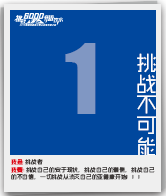
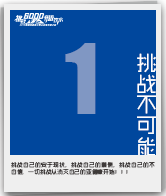
modify

Changed region(s): [[0.0602, 0.7959, 0.9337, 0.9184]]

diff --git a/js/detail.js b/js/detail.js
@@ -2,7 +2,7 @@
 * @Author: JerryWang
 * @Date:   2015-07-18 23:36:35
 * @Last Modified by:   JerryWang
-* @Last Modified time: 2015-07-20 21:40:12
+* @Last Modified time: 2015-07-21 13:02:52
 */
 
 $(function(){
@@ -40,7 +40,7 @@ $(function(){
 	});
 
 	$(".fav .icon").click(function(){
-		$.post('/api/third/up',{id:id},function(){
+		$.post('/api/third/up/',{id:id},function(){
 			$('#detail .upnum').text(function(index,text){
 				return (parseInt(text) || 0) + 1;
 			})
@@ -50,7 +50,7 @@ $(function(){
 	$.post('/api/third/visit/',{id:id},function(){});
 
 
-	$.getJSON('http://slide.cm/wechat/config?url=http://k3.limijiaoyin.com/third/html/detail.html?id='+id,function(data){
+	$.getJSON('http://slide.cm/wechat/config?url=http://kunlun.limijiaoyin.com/third/html/detail.html?id='+id,function(data){
 		wx.config({
 			debug: false,
 			appId: 'wx82a5d90838b461ba',
@@ -73,8 +73,8 @@ $(function(){
             wx.onMenuShareAppMessage({
                  title: "一起去挑战6000，一起去升级人生～",
                  desc: '我参与了昆仑山雪山矿泉水的晒风景活动，分享就有奖，你也快来参加吧！',
-                 link: 'http://k3.limijiaoyin.com/third/html/detail.html?id='+id,
-                 imgUrl: "http://k3.limijiaoyin.com/third/images/weixin_logo.jpg",
+                 link: 'http://kunlun.limijiaoyin.com/third/html/detail.html?id='+id,
+                 imgUrl: "http://kunlun.limijiaoyin.com/third/images/weixin_logo.jpg",
                  trigger: function (res) {
                  },
                  success: function (res) {
@@ -84,8 +84,8 @@ $(function(){
 
              wx.onMenuShareTimeline({
                  title: '一起去挑战6000，一起去升级人生～',
-                 link: 'http://k3.limijiaoyin.com/third/html/detail.html?id='+id,
-                 imgUrl: "http://k3.limijiaoyin.com/third/images/weixin_logo.jpg",
+                 link: 'http://kunlun.limijiaoyin.com/third/html/detail.html?id='+id,
+                 imgUrl: "http://kunlun.limijiaoyin.com/third/images/weixin_logo.jpg",
                  trigger: function (res) {
                  },
                  success: function (res) {

diff --git a/js/list.js b/js/list.js
@@ -2,7 +2,7 @@
  * @Author: JerryWang
  * @Date:   2015-07-15 15:12:34
  * @Last Modified by:   JerryWang
- * @Last Modified time: 2015-07-20 21:22:34
+ * @Last Modified time: 2015-07-21 13:06:18
  */
 
 
@@ -98,7 +98,7 @@
 	var today = new Date();
 	var year = today.getFullYear();
 	var month = today.getMonth()+1;
-	var day = today.getDate();
+	var day = 22 || today.getDate();
 	var imgList = {
 		22:['../images/7-22/1.jpg','../images/7-22/2.jpg'],
 		23:['../images/7-23/1.jpg','../images/7-23/2.jpg'],
@@ -154,7 +154,7 @@
 	
 
 
-	$.getJSON('http://slide.cm/wechat/config?url=http://k3.limijiaoyin.com/third/html/list.html',function(data){
+	$.getJSON('http://slide.cm/wechat/config?url=http://kunlun.limijiaoyin.com/third/html/list.html',function(data){
 		wx.config({
 			debug: false,
 			appId: 'wx82a5d90838b461ba',
@@ -173,8 +173,8 @@
             wx.onMenuShareAppMessage({
                  title: "一起去挑战6000，一起去升级人生～",
                  desc: '我参与了昆仑山雪山矿泉水的晒风景活动，分享就有奖，你也快来参加吧！',
-                 link: 'http://k3.limijiaoyin.com/third/html/list.html',
-                 imgUrl: "http://k3.limijiaoyin.com/third/images/weixin_logo.jpg",
+                 link: 'http://kunlun.limijiaoyin.com/third/html/list.html',
+                 imgUrl: "http://kunlun.limijiaoyin.com/third/images/weixin_logo.jpg",
                  trigger: function (res) {
                  },
                  success: function (res) {
@@ -184,8 +184,8 @@
 
              wx.onMenuShareTimeline({
                  title: '一起去挑战6000，一起去升级人生～',
-                 link: 'http://k3.limijiaoyin.com/third/html/list.html',
-                 imgUrl: "http://k3.limijiaoyin.com/third/images/weixin_logo.jpg",
+                 link: 'http://kunlun.limijiaoyin.com/third/html/list.html',
+                 imgUrl: "http://kunlun.limijiaoyin.com/third/images/weixin_logo.jpg",
                  trigger: function (res) {
                  },
                  success: function (res) {

diff --git a/html/test.html b/html/test.html
@@ -20,24 +20,22 @@
        
         
         <div class="textarea posr">
-           <div class="inputname">
-              <span class="speacil">我是:</span><input type="text" placeholder="写下你的签名…">
-           </div>
+          
            <div class="inputntext">
-              <span class="speacil">我要:</span><textarea placeholder="&nbsp;&nbsp;&nbsp;&nbsp;&nbsp;&nbsp;&nbsp;&nbsp;&nbsp;大胆写出你最想说出的话…"></textarea>
+            <textarea placeholder="大胆写出你最想说出的话…"></textarea>
            </div>  
+           
         </div>
        
      
         <!--<div class="signature posr"><span class="name">签名</span><div class="line"></div></div> -->
         
           <div class="textarea posr">
-           <div class="inputname">
-              <span class="speacil">我是:</span><span class="text">我是谁</span>
-           </div>
+          
            <div class="inputntext">
-              <span class="speacil">我要:</span><span class="text">大胆写出你最想说出的话大胆写出你最想说出的话大胆写出你最想说出的话大胆写出你最想说出的话</span>
+             <span class="text">大胆写出你最想说出的话大胆写出你最想说出的话大胆写出你最想说出的话大胆写出你最想说出的话</span>
            </div>
+           
         </div>
         
         
@@ -48,13 +46,5 @@
     
   </div>
   <!--createpic e-->
-  <script src="../js/jquery.min.js"></script>
-  <script>
-   $(function(){
-	  $("textarea").each(function(){
-					$(this).css("height",$(this).attr("scrollHeight"));
-				});   
-	})
-  </script>
 </body>
 </html>

diff --git a/css/base.css b/css/base.css
@@ -134,11 +134,11 @@ a,a:visited{ text-decoration:none; outline:none;color:#fff;}
 .textarea input{ margin-left:40px; display:block; -webkit-box-flex: 1;  margin-top: 2px;}
 .inputname .speacil{top: 4px;}
 
-.textarea textarea{text-indent: 2.5em;padding:5px;width: 100%; height:46px;}
+.textarea textarea{/*text-indent: 2.5em;*/padding:5px;width: 100%; height:46px;}
 .inputntext .speacil{top:28px;}
 
-.picset .textarea .text{text-indent: 2.5em;display: inline-block;color: #3e3a39;font-size: 14px;padding:5px 5px 5px;word-break: break-all;}
-.picset  .inputntext  .text{ padding-top:0px;position: relative;top: -1px;}
+.picset .textarea .text{/*text-indent: 2.5em;*/display: inline-block;color: #3e3a39;font-size: 14px;padding:5px 5px 5px;word-break: break-all;}
+/*.picset  .inputntext  .text{ padding-top:0px;position: relative;top: -1px;}*/
 /*签名*/
 .signature{ float:right; text-align:center; width:60px; overflow:hidden; text-align:center;}
 .signature .name{ color:#b5b5b6;-webkit-transform: rotate(-10deg); display:block; font-size:0.75em;height:30px; overflow:hidden;white-space: nowrap;}

diff --git a/html/detail.html b/html/detail.html
@@ -38,11 +38,11 @@ var _hmt = _hmt || [];
         <!--picshow e-->
 
         <div class="textarea posr">
-           <div class="inputname">
+          <!--  <div class="inputname">
               <span class="speacil">我是:</span><span class="text" id="whoami">我是谁</span>
-           </div>
+           </div> -->
            <div class="inputntext">
-              <span class="speacil">我要:</span><span class="text" id="desc">大胆写出你最想说出的话大胆写出你最想说出的话大胆写出你最想说出的话大胆写出你最想说出的话</span>
+             <!--  <span class="speacil">我要:</span> --><span class="text" id="desc">大胆写出你最想说出的话大胆写出你最想说出的话大胆写出你最想说出的话大胆写出你最想说出的话</span>
            </div>
         </div>
 

diff --git a/html/list.html b/html/list.html
@@ -117,11 +117,11 @@ var _hmt = _hmt || [];
         </div>
         <!--picshow e-->
         <div class="textarea posr">
-           <div class="inputname">
+           <!-- <div class="inputname">
               <span class="speacil">我是:</span><input id="sign" type="text" placeholder="写下你的签名…">
-           </div>
+           </div> -->
            <div class="inputntext">
-              <span class="speacil">我要:</span><textarea placeholder="&nbsp;&nbsp;&nbsp;&nbsp;&nbsp;&nbsp;&nbsp;&nbsp;&nbsp;大胆写出你最想说出的话…"></textarea>
+             <!--  <span class="speacil">我要:</span> --><textarea placeholder="大胆写出你最想说出的话…"></textarea>
            </div>  
         </div>
         

diff --git a/html/template.html b/html/template.html
@@ -33,7 +33,7 @@
            <span class="speacil">我要:</span><textarea placeholder="&nbsp;&nbsp;&nbsp;&nbsp;&nbsp;&nbsp;&nbsp;&nbsp;&nbsp;大胆写出你最想说出的话…"></textarea>
         </div>
         
-        <div class="signature posr"><span class="name">签名</span><div class="line"></div></div> 
+        <!--<div class="signature posr"><span class="name">签名</span><div class="line"></div></div> -->
       </div>
     </div>
     <!--picset e-->
